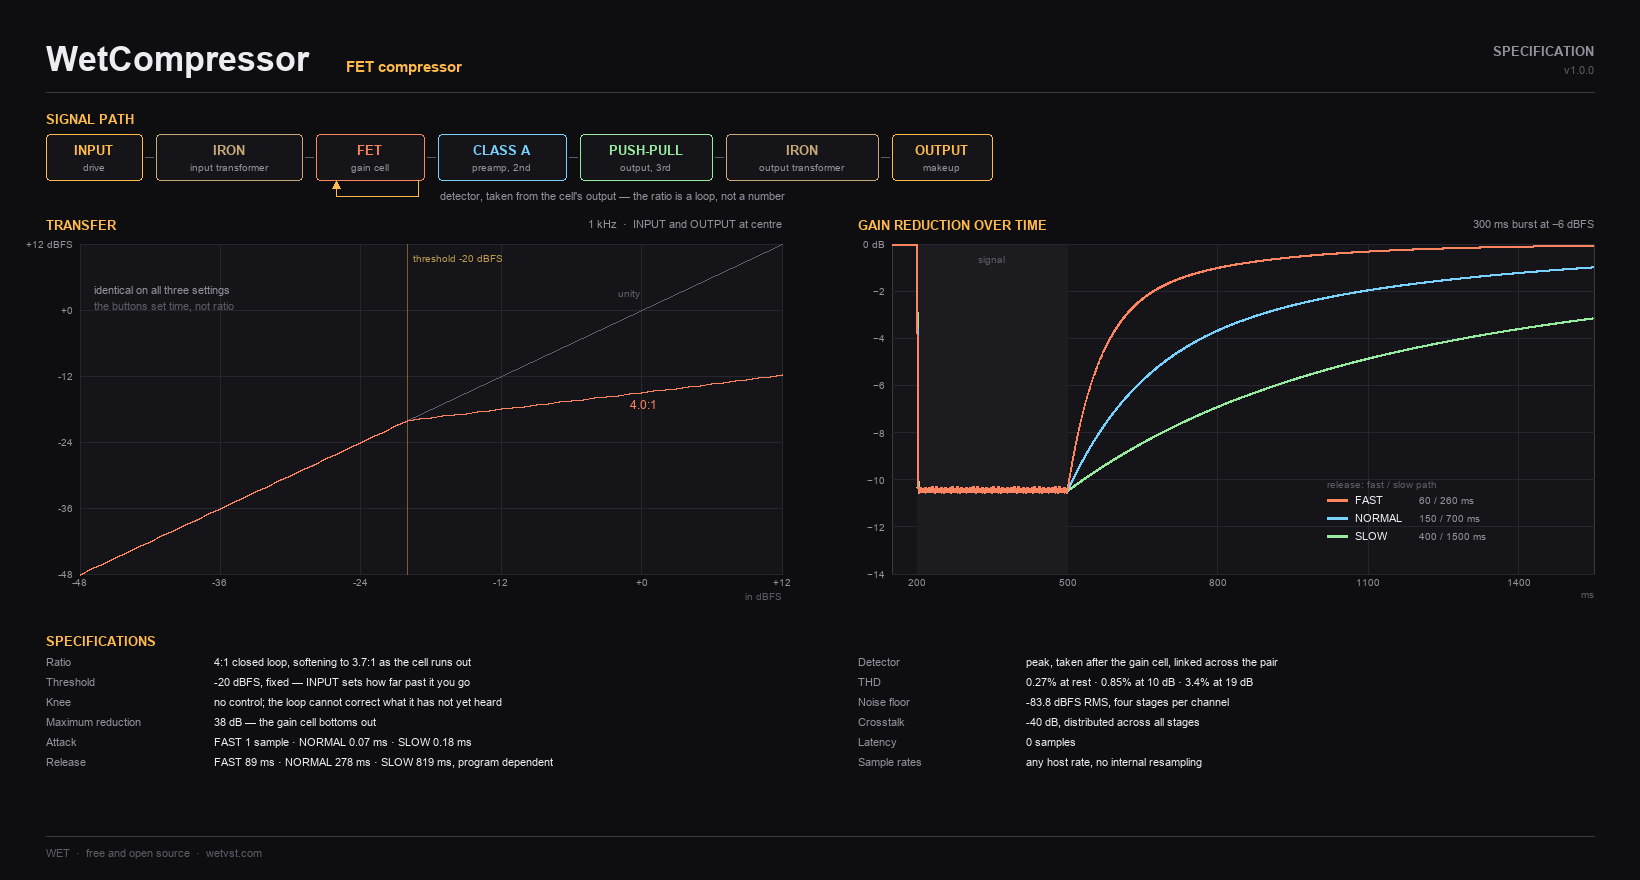
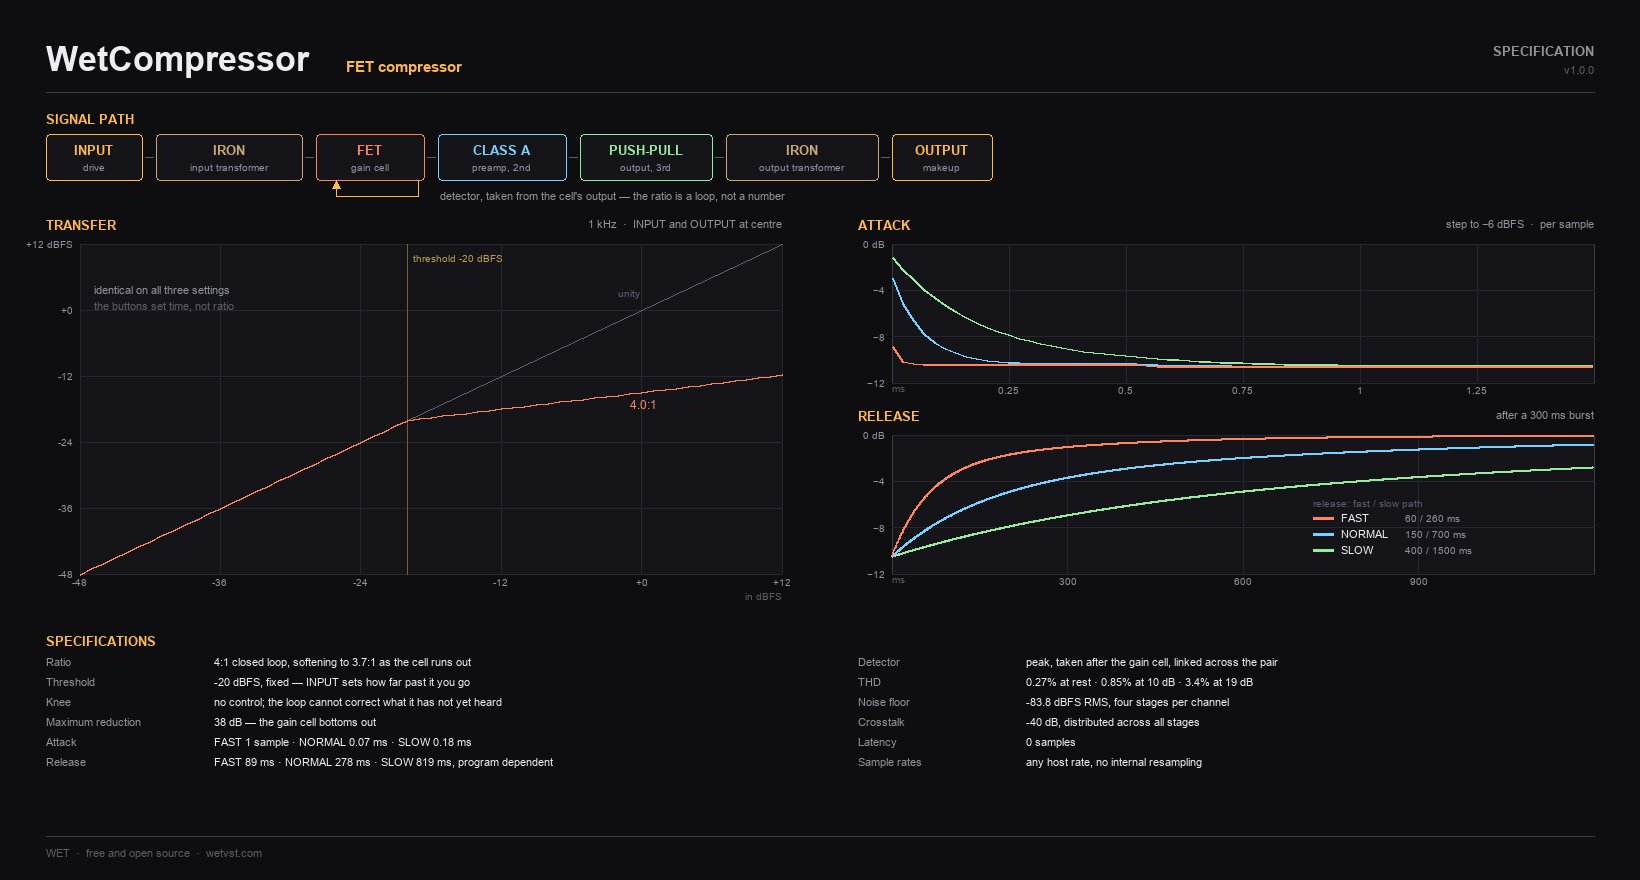
comptest: an attack TRACE, not just an attack number
Per-sample gain reduction for the first 4 ms after a hard step. All three
settings arrive inside a millisecond, so the only way to show that they differ
is to measure at sample resolution - a per-millisecond trace reports 0 or 1 ms
for all three and they read as the same setting.

diff --git a/tools/comptest.cpp b/tools/comptest.cpp
@@ -210,6 +210,32 @@ double attackMs(int mode)
 }
 
 //------------------------------------------------------------------------
+// The attack, as a TRACE rather than a single number: gain reduction per
+// sample for the first few milliseconds after a hard step.
+//
+// Same square wave as attackMs and for the same reason - a rectified sine only
+// reaches its peak a quarter cycle in, which at 220 Hz is longer than any of
+// the three attack settings, so a sine step measures the tone getting loud
+// rather than the sidechain doing anything.
+std::vector<double> attackTrace(int mode, int samples)
+{
+    Engine e(mode, false);
+    const double amp = lin(-6.0);
+    std::vector<double> gr;
+    gr.reserve(samples);
+
+    float inL, inR, outL, outR;
+    for (int i = 0; i < samples; ++i)
+    {
+        const double ph = std::fmod(1000.0 * i / kRate, 1.0);
+        inL = inR = static_cast<float>(ph < 0.5 ? amp : -amp);
+        e.eng.processStereo(&inL, &inR, &outL, &outR, 1);
+        gr.push_back(e.eng.gainReductionDb());
+    }
+    return gr;
+}
+
+//------------------------------------------------------------------------
 // THD against gain reduction. On a FET compressor the two have to move
 // together: the device setting the gain is the device making the harmonics.
 std::vector<std::pair<double, double>> thdVsReduction()
@@ -305,6 +331,20 @@ void writeJson(const char* path)
         std::fprintf(f, "    \"%s\": [", kModeName[m]);
         for (size_t i = 0; i < gr.size(); ++i)
             std::fprintf(f, "%s%.3f", i ? "," : "", gr[i]);
+        std::fprintf(f, "]%s\n", m < 2 ? "," : "");
+    }
+    std::fprintf(f, "  },\n");
+
+    // Attack traces, at SAMPLE resolution: 4 ms is long enough for the slowest
+    // of the three to arrive and short enough that the three stay separable.
+    const int atkSamples = static_cast<int>(kRate * 0.004);
+    std::fprintf(f, "  \"attack\": {\n");
+    for (int m = 0; m < 3; ++m)
+    {
+        auto tr = attackTrace(m, atkSamples);
+        std::fprintf(f, "    \"%s\": [", kModeName[m]);
+        for (size_t k = 0; k < tr.size(); ++k)
+            std::fprintf(f, "%s%.4f", k ? "," : "", tr[k]);
         std::fprintf(f, "]%s\n", m < 2 ? "," : "");
     }
     std::fprintf(f, "  },\n");
